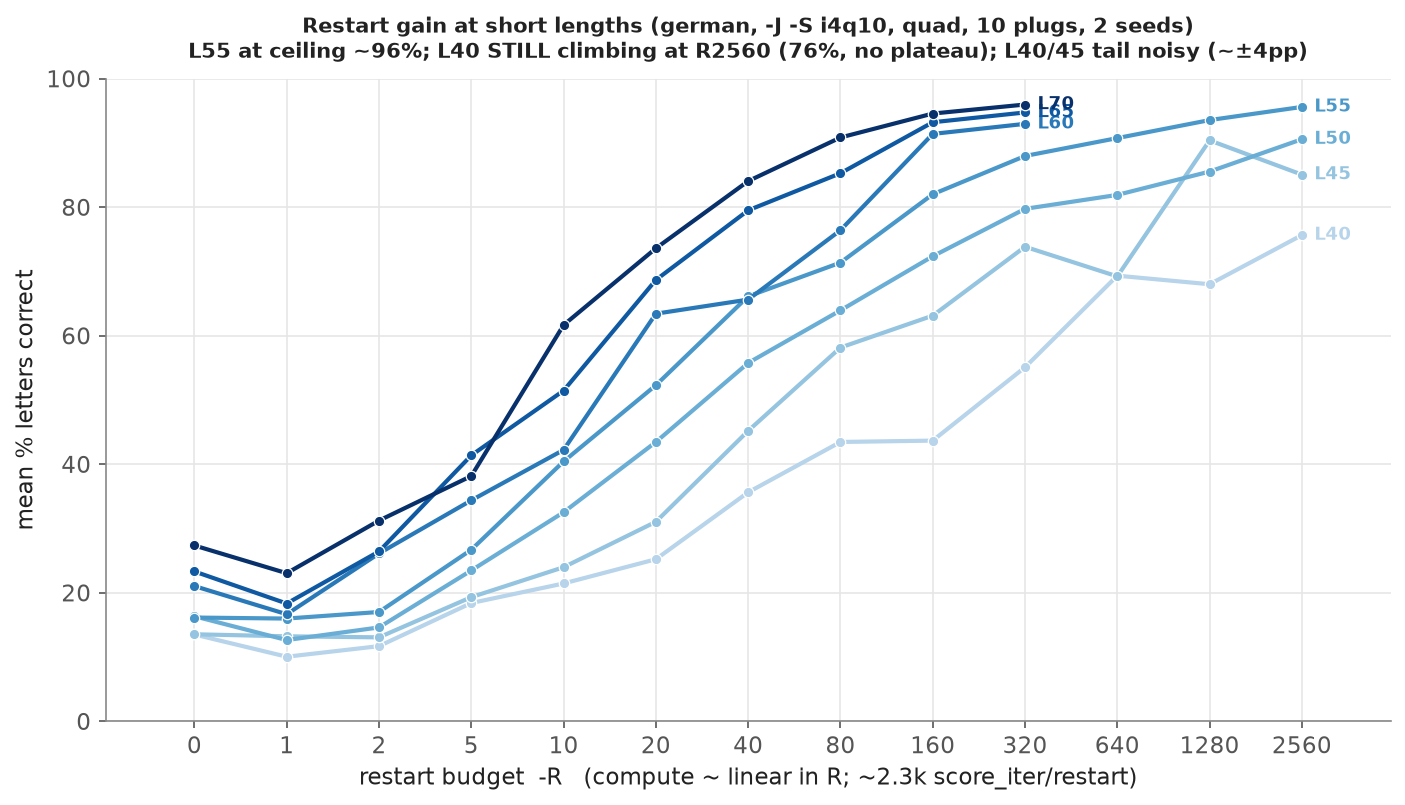
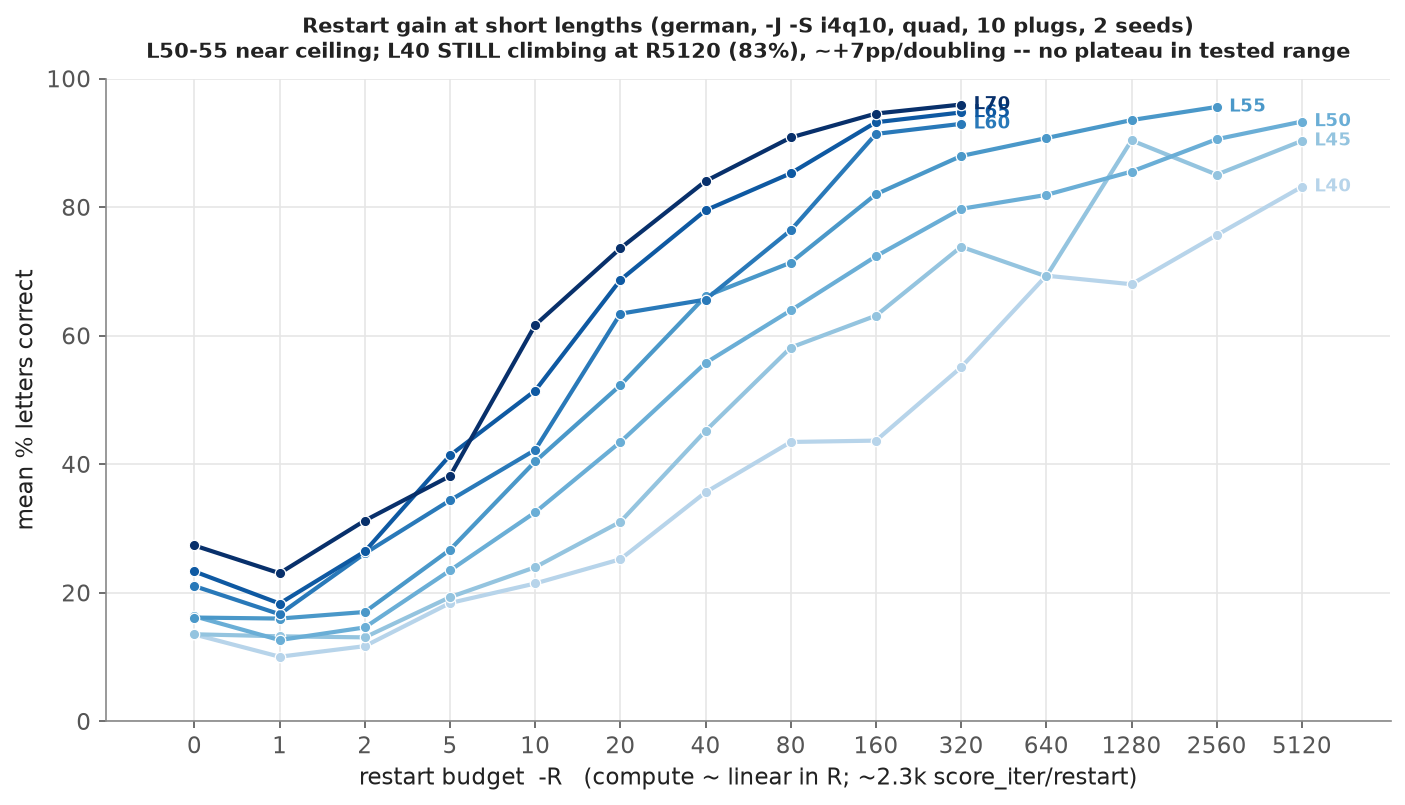
Restart-gain sweep (German): R=5120 for L40-50 -- L40 still climbing (83%)
L40 continues up: 76 -> 83 (+7.5 from R2560). Full tail 55/69/68/76/83 at
R320-5120 is a clean ~+7pp/doubling march (the R640/R1280 wobble was noise) --
NO plateau even at R5120 (~11.8M score_iter/run). The hardest short length is
compute-bound throughout the tested range; extrapolating ~+7pp/doubling its
ceiling is somewhere past R10k. L50 near ceiling (93%), L45 ~90 (noisy).

Claude-Session: https://claude.ai/code/session_014GftopEhYTR7xamwfhnPqt

diff --git a/eval/plot_results.py b/eval/plot_results.py
@@ -710,7 +710,7 @@ if RSW_HAVE:
     ax.set_xlabel("restart budget  -R   (compute ~ linear in R; ~2.3k score_iter/restart)")
     ax.set_ylabel("mean % letters correct")
     ax.set_title("Restart gain at short lengths (german, -J -S i4q10, quad, 10 plugs, 2 seeds)\n"
-                 "L55 at ceiling ~96%; L40 STILL climbing at R2560 (76%, no plateau); L40/45 tail noisy (~±4pp)",
+                 "L50-55 near ceiling; L40 STILL climbing at R5120 (83%), ~+7pp/doubling -- no plateau in tested range",
                  fontsize=10, fontweight="bold", pad=10)
     ax.set_ylim(0, 100)
     ax.margins(x=0.08)
